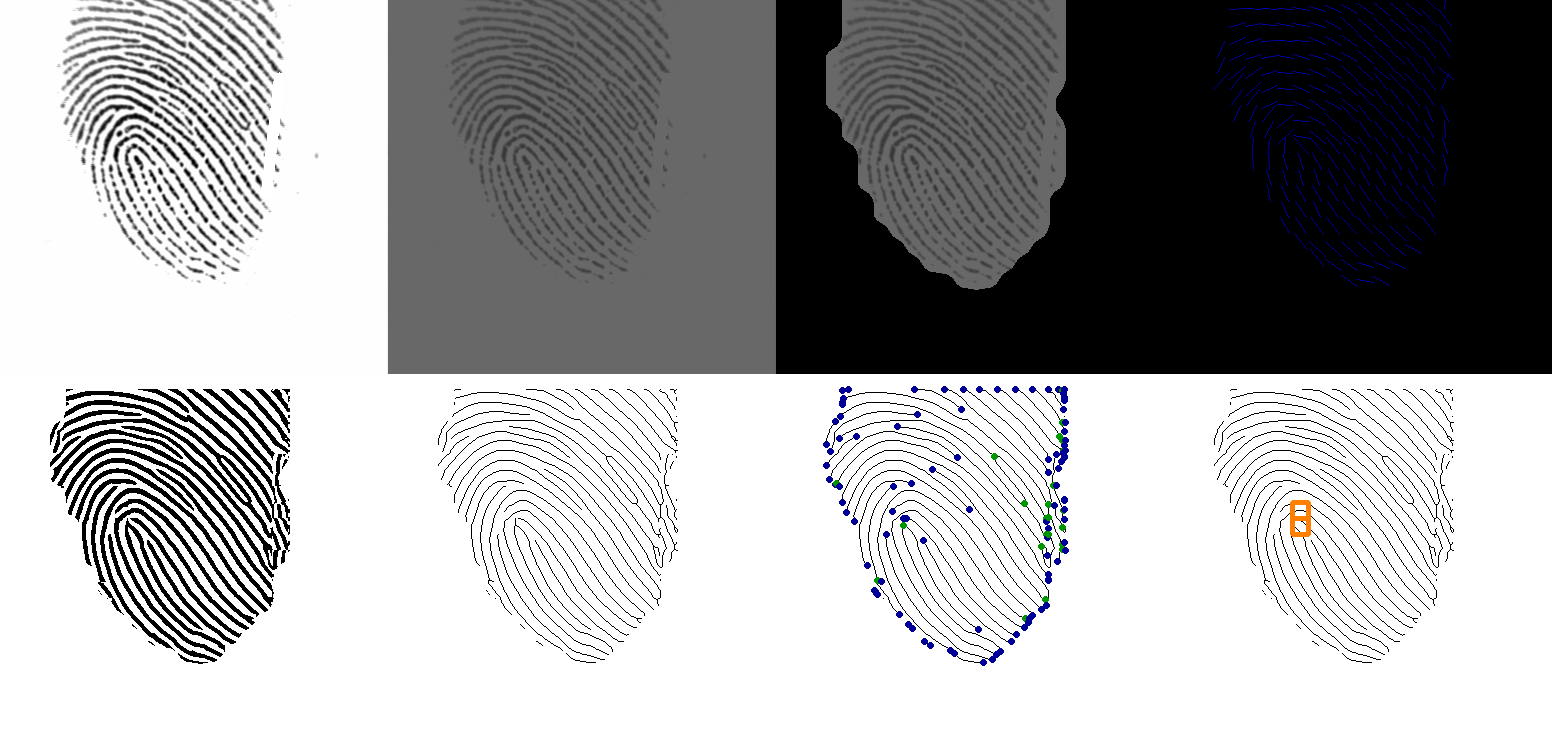
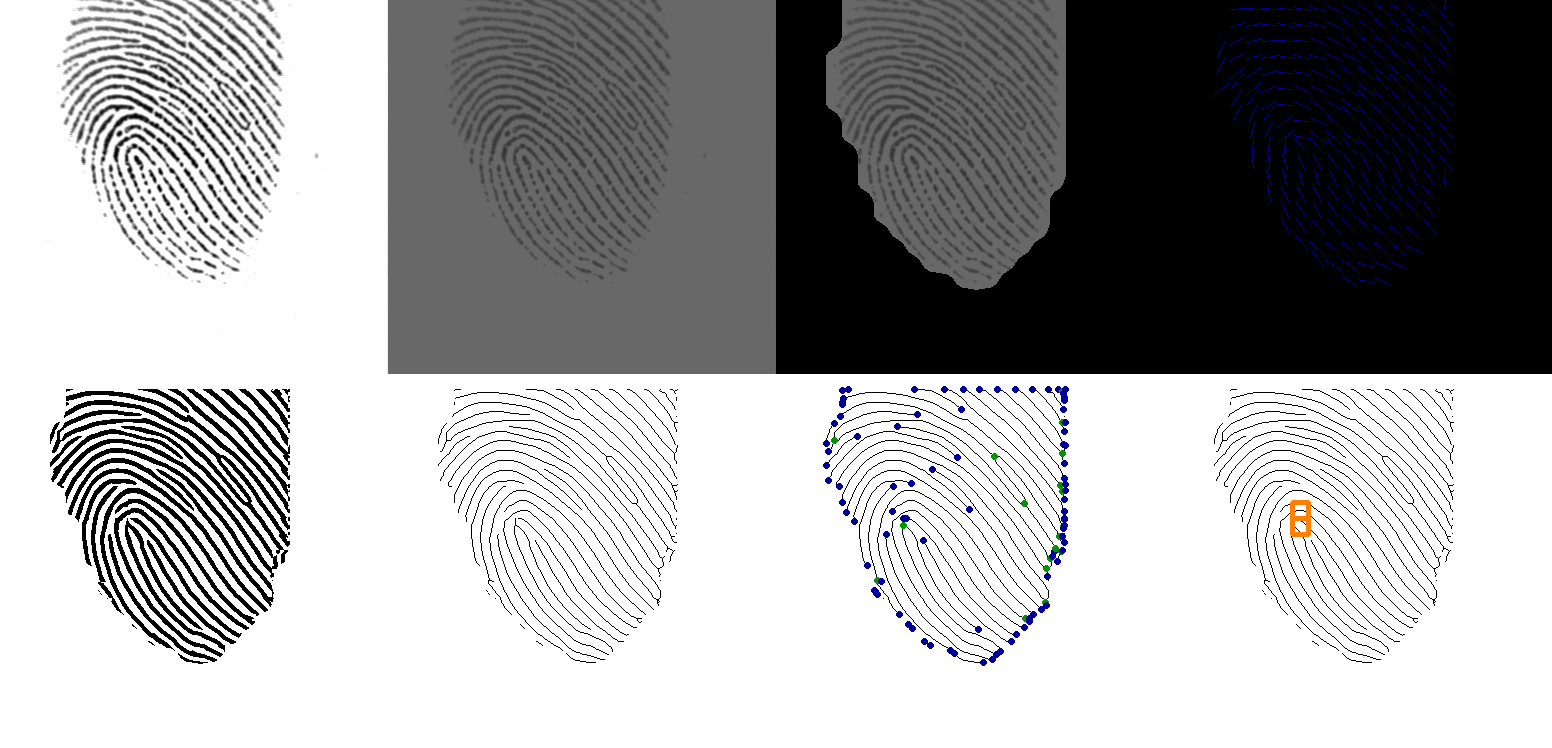
We just passed the oral, I think this is gonna be my final commit ! angle matching is yet to be done

diff --git a/fingerprint_matching.py b/fingerprint_matching.py
@@ -36,33 +36,39 @@ def extract_data(img_folder, l_content=[3, 5, 6, 7]):
 
 
 
-def rotation_minutiae(minutiae, angle, rotation_center, show = False):
+def rotation_minutiae(minutiae, angle, rotation_center, show = False, color1 = 'ro', color2 = 'bo'):
         x = minutiae[:, 0]
         y = minutiae[:, 1]
         if show:
-                plt.plot(x, y, 'ro')
+                plt.plot(x, y, color1)
                 plt.gca().invert_yaxis()
         x1 = x - rotation_center[0]
-        y1 = y - rotation_center[1]
+        y1 = y - rotation_center[1] 
         # multplication by the rotation matrix
         x_rot = x1*cos(angle) - y1*sin(angle) + rotation_center[0]
         y_rot = x1*sin(angle) + y1*cos(angle) + rotation_center[1]
-        x_pixel_coord = np.array([int(i) for i in x_rot])
-        y_pixel_coord = np.array([int(i) for i in y_rot])
+        x_pixel_coord = np.array(x_rot)
+        y_pixel_coord = np.array(y_rot)
         type_minutiae = minutiae[:, 2]
         if show:
-                plt.plot(x_pixel_coord, y_pixel_coord, 'bo')
-                plt.show()
+                plt.plot(x_pixel_coord, y_pixel_coord, color2)
+                plt.plot(rotation_center[0], rotation_center[1], color2[:-1]+'+') # the center of rotation
+                #plt.show()
+                ksle = 0
         
         return np.column_stack((x_pixel_coord, y_pixel_coord, type_minutiae))
 
-def translation_minutiae(minutiae, translation):
-        x = minutiae[1][:, 0]
-        y = minutiae[1][:, 1]
-        x_pixel_coord = x + translation[:,0]
-        y_pixel_coord = y + translation[:,1]
-        type_minutiae = minutiae[0][:, 2]
-        return np.column_stack((x_pixel_coord, y_pixel_coord, type_minutiae)), np.column_stack((x_pixel_coord, y_pixel_coord))
+def translation_minutiae(minutiae, translation, show = False, color = 'b+'):
+        translation = np.array(translation)
+        x = minutiae[:, 0]
+        y = minutiae[:, 1]
+        x_pixel_coord = [x[i] + translation[0] for i in range(x.shape[0])]
+        y_pixel_coord = [y[i] + translation[1] for i in range(y.shape[0])]
+        type_minutiae = minutiae[:, 2]
+        if show:
+                plt.plot(x_pixel_coord, y_pixel_coord, color)
+                plt.gca().invert_yaxis()
+        return np.column_stack((x_pixel_coord, y_pixel_coord, type_minutiae))
 
 
 
@@ -181,6 +187,10 @@ def remove_border_minutiae_and_center(minutiae, thin, singularities, angles, pou
                 x_borderless = [i[0] for i in minutiae_without_border]
                 y_borderless = [i[1] for i in minutiae_without_border]
                 plt.plot(x_borderless, y_borderless, 'bo')
+                plt.ylabel('x pixels (rows)')
+                plt.xlabel('y pixels (columns)')
+                plt.title('Removing border minutiae presentation')
+                plt.grid()
                 plt.show()
 
         return np.array(minutiae_without_border)
@@ -246,17 +256,17 @@ def compare_minutiaes(cloud_ref, cloud1, method):
         # create the translation that reduces the minimal distances
         if method == 'translation':
                 translation = np.mean(l_closest_points[:, 0] - l_closest_points[:, 1], axis = 0)
-                return translation, l_closest_points
+                return -translation, l_closest_points
 
         # create the rotation the reduces the minimal distances
         elif method == 'rotation':
                 l_angles_rotation = []
                 for points in l_closest_points[:, :2]:
                         l = distance(points[0], centre)
-                        norme = points[2]
+                        #norme = points[2]
                         c1 = points[0][0]
                         c2 = points[0][1]
-                        l_ortho = [-c1/l, c2/l]
+                        l_ortho = [-c2/l, c1/l]
                         vecteur = [points[1][0]-points[0][0], points[1][1]-points[0][1]]
                         sp = vecteur[0]*l_ortho[0] + vecteur[1]*l_ortho[1]
                         l_angles_rotation.append(atan2(sp,l))
@@ -274,15 +284,15 @@ def match_fingerprints(lo, lo2m):
         minutiae = remove_border_minutiae_and_center(lo[d['minutias']],
                                                      lo[d['thin']],
                                                      lo[d['singularities']],
-                                                     lo[d['orientation']], pourcentage = 4/5, n_sectors=20, plot = True)
+                                                     lo[d['orientation']], pourcentage = 4/5, n_sectors=8, plot = True)
         minutiae2match = remove_border_minutiae_and_center(lo2m[d['minutias']],
                                                            lo2m[d['thin']],
                                                            lo2m[d['singularities']],
-                                                           lo2m[d['orientation']], pourcentage = 4/5, n_sectors=20, plot = True)
+                                                           lo2m[d['orientation']], pourcentage = 4/5, n_sectors=8, plot = True)
 
         # faire matcher les singularités
-        coord_sing_2m = lo2m[d['singularities']][:, :2]
-        coord_sing = lo[d['singularities']][:, :2]
+        #coord_sing_2m = lo2m[d['singularities']][:, :2]
+        #coord_sing = lo[d['singularities']][:, :2]
 
 
         # faire matcher les angles
@@ -318,7 +328,40 @@ print(folders_dtb)
 lo2m = extract_data(folder_2match)
 lo = extract_data(folders_dtb[0])
 
-match_fingerprints(lo, lo2m)
+#match_fingerprints(lo, lo2m)
+
+minutias = lo[d['minutias']]
+minutias_bl = remove_border_minutiae_and_center(minutias, lo[d['thin']], lo[d['singularities']], lo[d['orientation']], pourcentage = 3/5, n_sectors=26, plot = True)
+
+# configuration initiale
+x = minutias_bl[:, 0]
+y = minutias_bl[:, 1]
+plt.plot(x, y, 'ko')
+plt.gca().invert_yaxis()
+
+# perturbation
+pert_minutia = rotation_minutiae(minutias_bl, pi/6, [0,0])
+pert_minutia = translation_minutiae(pert_minutia, [10, 10], show = True, color = 'b+')
+
+
+# retour à l'origine
+angle = compare_minutiaes(minutias_bl, pert_minutia, 'rotation')[0]
+pert_minutia = rotation_minutiae(pert_minutia, angle, [0,0], show=True, color1 = 'b+', color2 = 'mo')
+
+translation = compare_minutiaes(minutias_bl, pert_minutia, 'translation')[0]
+pert_minutia = translation_minutiae(pert_minutia, translation, show = True, color = 'ko')
+
+angle = compare_minutiaes(minutias_bl, pert_minutia, 'rotation')[0]
+pert_minutia = rotation_minutiae(pert_minutia, angle, [0,0], show = True, color1 = 'ro', color2 = 'yo')
+
+#translation = compare_minutiaes(minutias_bl, pert_minutia, 'translation')[0]
+#pert_minutia = translation_minutiae(pert_minutia, translation, show = True, color = 'go')
+
+plt.ylabel('x pixels (rows)')
+plt.xlabel('y pixels (columns)')
+plt.title('Minimization of the distance between two clouds of minutiae')
+plt.grid()
+plt.show()
 
 
 # rot_minu = rotation_minutiae(minutiae, pi, [0,0])

diff --git a/SOCO_original_code/finegerprint_pipline.py b/SOCO_original_code/finegerprint_pipline.py
@@ -11,6 +11,7 @@ from utils import orientation
 from utils.crossing_number import calculate_minutiaes
 from tqdm import tqdm
 from utils.skeletonize import skeletonize
+import matplotlib.pyplot as plt
 
 
 def fingerprint_pipline(input_img):
@@ -33,7 +34,8 @@ def fingerprint_pipline(input_img):
     # orientations
     angles = orientation.calculate_angles(normalized_img, W=block_size, smoth=False)
     orientation_img = orientation.visualize_angles(segmented_img, mask, angles, W=block_size)
-
+    plt.imshow(orientation_img, cmap='hot')
+    plt.show()
     # find the overall frequency of ridges in Wavelet Domain
     freq = ridge_freq(normim, mask, angles, block_size, kernel_size=5, minWaveLength=5, maxWaveLength=15)
 
@@ -61,6 +63,14 @@ def fingerprint_pipline(input_img):
 
 if __name__ == '__main__':
     
+    # minimum_mean_distance = 5
+    # threshold = 0.1
+
+    # # deciding whether fingerprints mache:
+    # if minimum_mean_distance < threshold:
+    #     print('Fingerprints match')
+    # else:
+    #     print('Fingerprints do not match')
 
     # open images
     img_dir = './SOCO_original_code/sample_inputs/*'
@@ -70,7 +80,7 @@ if __name__ == '__main__':
         images_paths = glob(directory)
         return np.array([cv.imread(img_path,0) for img_path in images_paths])
 
-    images = open_images(damaged_img_dir)
+    images = open_images(img_dir)
     
     # image pipeline
     os.makedirs(output_dir, exist_ok=True)
